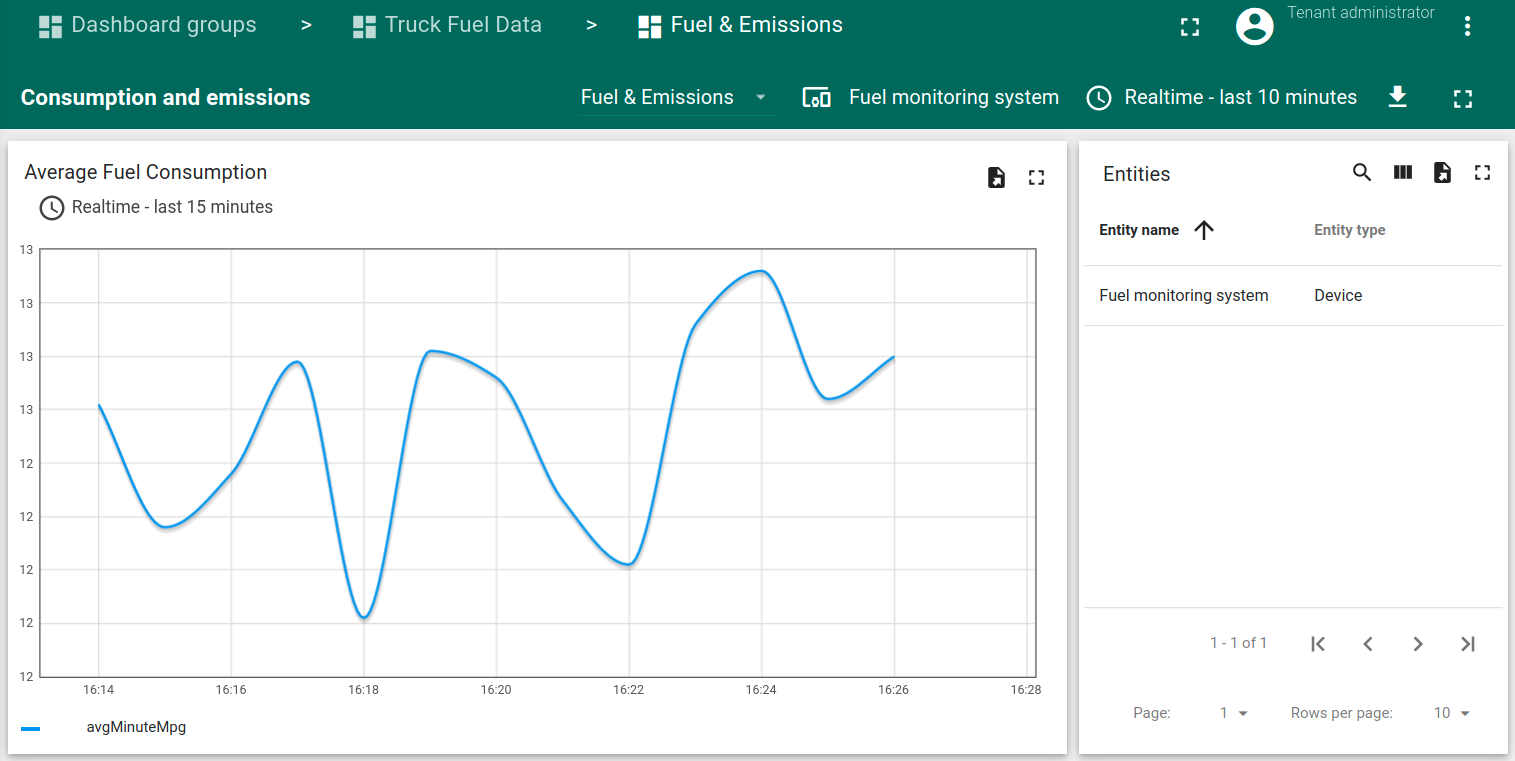
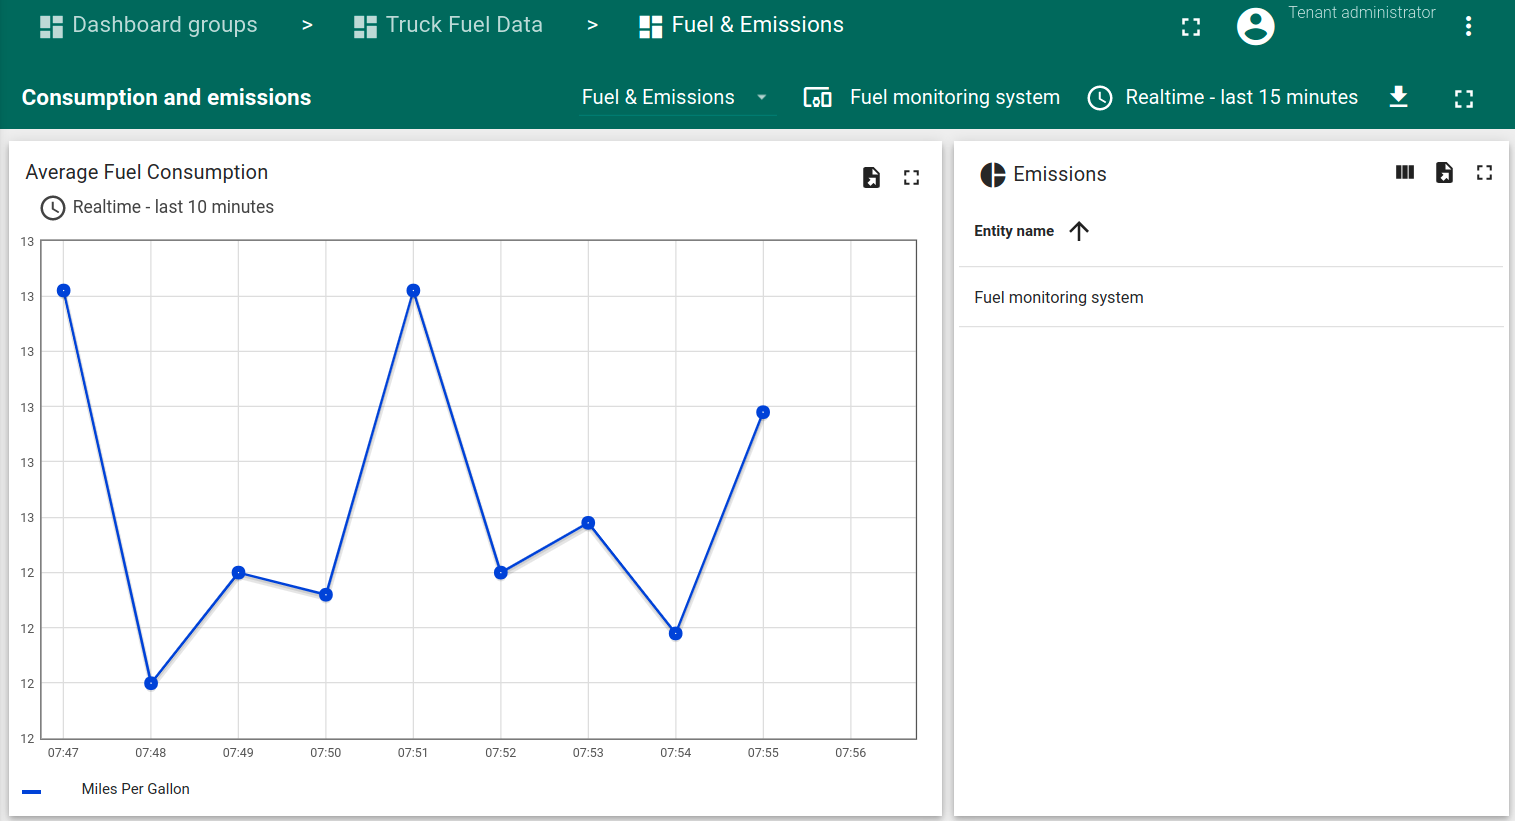
Use case #2

diff --git a/docs/edge/use-cases/resources/data-filtering-traffic-reduce/generator.js b/docs/edge/use-cases/resources/data-filtering-traffic-reduce/generator.js
@@ -1,15 +1,14 @@
 var mqtt = require('mqtt');
-console.log('Connecting to: %s using access token: %s', process.env.THINGSBOARD_HOST, process.env.ACCESS_TOKEN);
 var client  = mqtt.connect('mqtt://'+ process.env.THINGSBOARD_HOST + ':' + process.env.THINGSBOARD_PORT,{
     username: process.env.ACCESS_TOKEN
 });
 client.on('connect', function () {
-    console.log('Client connected!');
     var telemetry = {};
-    telemetry.mpg = Math.round((Math.random() * 5 + 10) * 100) / 100;
-    telemetry.CO = Math.round((Math.random() * 10 + 500) * 100) / 100;
-    telemetry.NO = Math.round((Math.random() * 10 + 700) * 100) / 100;
-    telemetry.HC = Math.round((Math.random() * 10 + 600) * 100) / 100;
+    telemetry.mpg = (Math.random() * 5 + 10).toFixed(0);
+    telemetry.CO = (Math.random() * 5 + 40).toFixed(0);
+    telemetry.NO = (Math.random() * 5/100).toFixed(4);
+    telemetry.HC = (Math.random() * 5 + 250).toFixed(0);
+    console.log('Fuel consumption: %s; CO: %s; NO: %s; HC: %s', telemetry.mpg, telemetry.CO, telemetry.NO, telemetry.HC);
     client.publish('v1/devices/me/telemetry', JSON.stringify(telemetry));
     client.end();
 });

diff --git a/docs/edge/use-cases/data-filtering-traffic-reduce.md b/docs/edge/use-cases/data-filtering-traffic-reduce.md
@@ -36,8 +36,6 @@ Edge **secret** and **key** we pasted in ThingsBoard Edge [configuration file](/
 
 ### Model definition
 
-{% assign feature = "Entity Groups" %}{% include templates/pe-feature-banner.md %}
-
 Open ThingsBoard Professional Edition UI. Add new [device group](/docs/user-guide/groups/) **Truck**:
 
 <br>![image](/images/edge/tutorial/data-filtering/add-device-group.png) 
@@ -130,8 +128,6 @@ Then run the following command:
 {% highlight bash %}
 node bash mqtt-js.sh
 {% endhighlight %}
-
-<br/>
 
 You should see following screen with your host and device token:
 
